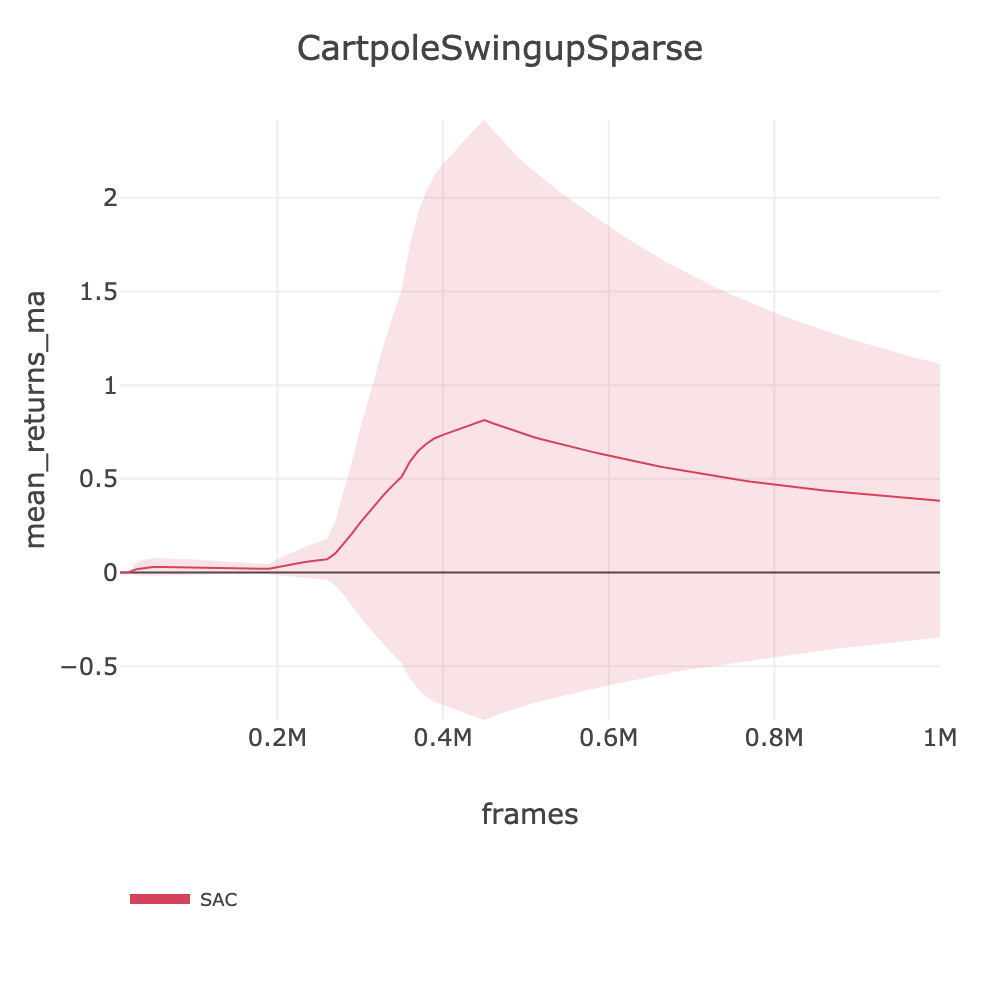
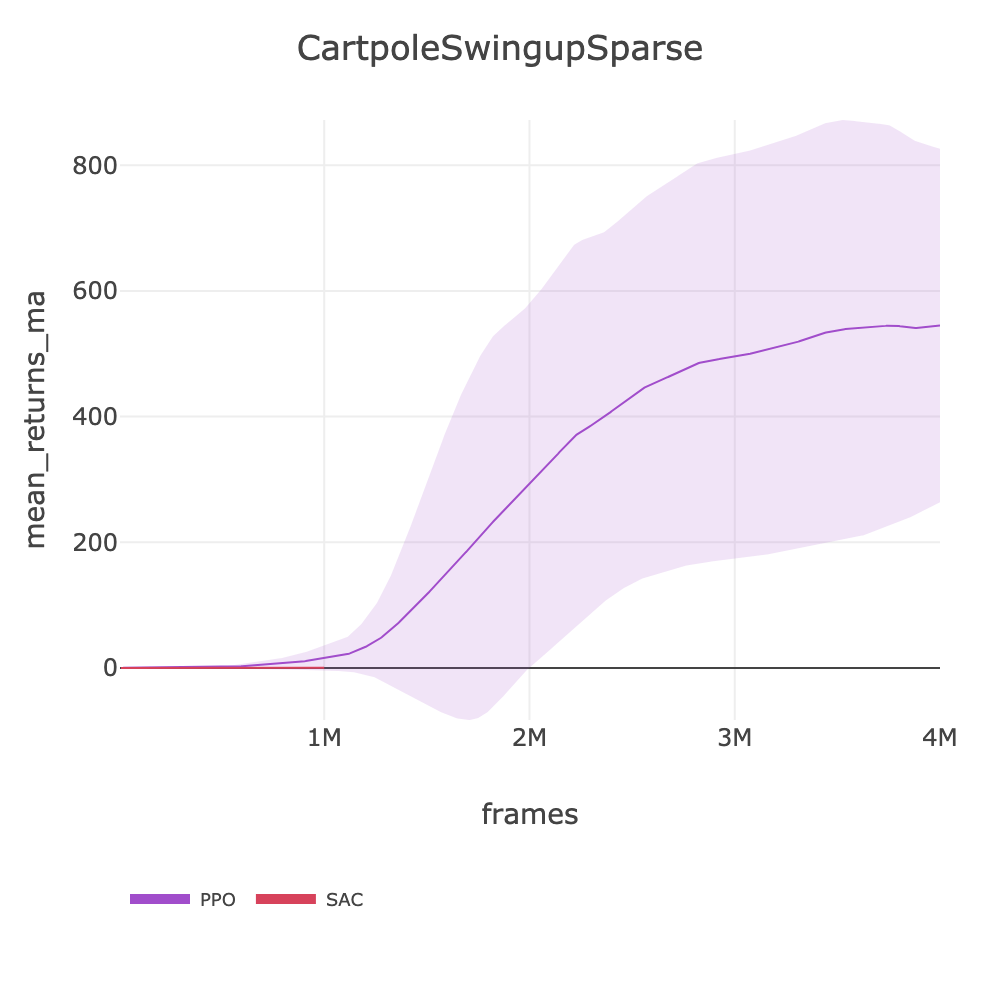
feat: Phase 5 CartpoleSwingupSparse PPO 4M (545.07)

diff --git a/docs/BENCHMARKS.md b/docs/BENCHMARKS.md
@@ -798,7 +798,8 @@ source .env && slm-lab run-remote --gpu -s env=playground/CartpoleBalance -s max
 | | SAC (DR128) | 613.83 | | ~3540 (dr128/128e) | 10M | ~0.8h | [sac_playground_arc_dr128_cartpolebalance_2026_03_06_181905](https://huggingface.co/datasets/SLM-Lab/benchmark-dev/tree/main/data/sac_playground_arc_dr128_cartpolebalance_2026_03_06_181905) |
 | playground/CartpoleBalanceSparse | PPO | 504.59 | ~992 | ~310 (256e) | 1M | ~0.9h | [ppo_playground_arc_cartpolebalancesparse_2026_03_06_181842](https://huggingface.co/datasets/SLM-Lab/benchmark-dev/tree/main/data/ppo_playground_arc_cartpolebalancesparse_2026_03_06_181842) |
 | playground/CartpoleSwingup | SAC | 371.40 | ~868 | ~60 (hard/16e) | 1M | ~4.6h | [sac_playground_arc_cartpoleswingup_2026_03_06_130653](https://huggingface.co/datasets/SLM-Lab/benchmark-dev/tree/main/data/sac_playground_arc_cartpoleswingup_2026_03_06_130653) |
-| playground/CartpoleSwingupSparse | SAC | 0.38 | ~630 | ~67 (hard/16e) | 1M | ~4.6h | [sac_playground_arc_utd1_cartpoleswingupsparse_2026_03_06_221127](https://huggingface.co/datasets/SLM-Lab/benchmark-dev/tree/main/data/sac_playground_arc_utd1_cartpoleswingupsparse_2026_03_06_221127) |
+| playground/CartpoleSwingupSparse | PPO | 545.07 | ~630 | ~420 (256e) | 4M | ~2.5h | [ppo_playground_arc_cartpoleswingupsparse_2026_03_07_100455](https://huggingface.co/datasets/SLM-Lab/benchmark-dev/tree/main/data/ppo_playground_arc_cartpoleswingupsparse_2026_03_07_100455) |
+| | SAC | 0.38 | | ~67 (hard/16e) | 1M | ~4.6h | [sac_playground_arc_utd1_cartpoleswingupsparse_2026_03_06_221127](https://huggingface.co/datasets/SLM-Lab/benchmark-dev/tree/main/data/sac_playground_arc_utd1_cartpoleswingupsparse_2026_03_06_221127) |
 | playground/CheetahRun | PPO | 53.61 | ~839 | ~2000 (256e) | 2M | ~0.3h | [ppo_playground_arc_cheetahrun_2026_03_06_134309](https://huggingface.co/datasets/SLM-Lab/benchmark-dev/tree/main/data/ppo_playground_arc_cheetahrun_2026_03_06_134309) |
 | | SAC | 112.59 | | ~140 (fast/64e) | 2M | ~4h | [sac_playground_arc_cheetahrun_2026_03_06_094013](https://huggingface.co/datasets/SLM-Lab/benchmark-dev/tree/main/data/sac_playground_arc_cheetahrun_2026_03_06_094013) |
 | playground/FingerSpin | SAC | 327.57 | ~742 | ~350 (fast/64e) | 1M | ~0.8h | [sac_playground_arc_fingerspin_2026_03_06_150750](https://huggingface.co/datasets/SLM-Lab/benchmark-dev/tree/main/data/sac_playground_arc_fingerspin_2026_03_06_150750) |
